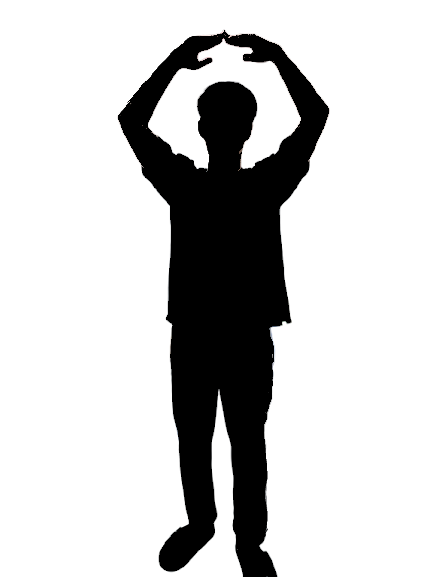
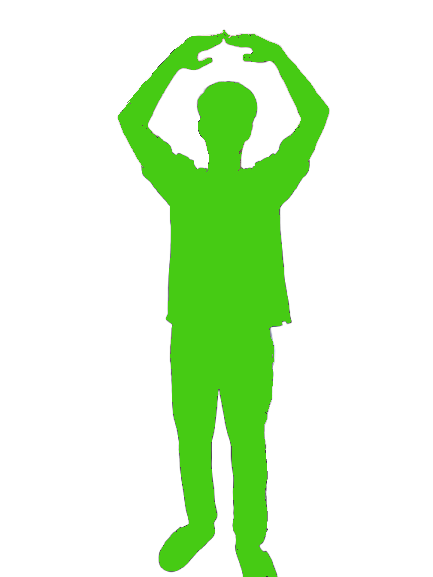
멀티 스쿼트 각도 쪼이기 & 오케이 가이드라인 색 수정

Changed region(s): [[0.2702, 0.0312, 0.7806, 1.0]]

diff --git a/pose/src/pages/multiplay/components/multiCam/squatCamera.js b/pose/src/pages/multiplay/components/multiCam/squatCamera.js
@@ -84,22 +84,22 @@ function MediapipeSquatTracking({
   //컴포넌트 마운트 시 카운트다운 시작
   useEffect(() => {
     // 운동 타이머 시작
-      socket.emit("startExerciseTimer", {
-        roomName,
-        duration: 30, // 예를 들어 5분(300초) 동안 운동 타이머
-      });
-  
-      socket.on("exerciseTimerStarted", ({ startTime, duration }) => {
-        const elapsedTime = (Date.now() - startTime) / 1000;
-        const initialRemainingTime = duration - elapsedTime;
-  
-        if (initialRemainingTime > 0) {
-          startExerciseTimer(Math.floor(initialRemainingTime));
-        } else {
-          setRemainingTime(0); // 이미 종료된 경우
-        }
-      });
-  
+    socket.emit("startExerciseTimer", {
+      roomName,
+      duration: 30, // 예를 들어 5분(300초) 동안 운동 타이머
+    });
+
+    socket.on("exerciseTimerStarted", ({ startTime, duration }) => {
+      const elapsedTime = (Date.now() - startTime) / 1000;
+      const initialRemainingTime = duration - elapsedTime;
+
+      if (initialRemainingTime > 0) {
+        startExerciseTimer(Math.floor(initialRemainingTime));
+      } else {
+        setRemainingTime(0); // 이미 종료된 경우
+      }
+    });
+
     return () => {
       socket.off("exerciseTimerStarted");
     };
@@ -242,7 +242,7 @@ function MediapipeSquatTracking({
           rightTorsoAngle > 30;
 
         // Squat up condition
-        const isSquatUp = leftKneeAngle > 150 || rightKneeAngle > 150;
+        const isSquatUp = leftKneeAngle > 140 || rightKneeAngle > 140;
 
         // Update squat state and count
         if (isSquatDown && squatStateRef.current === "up") {
